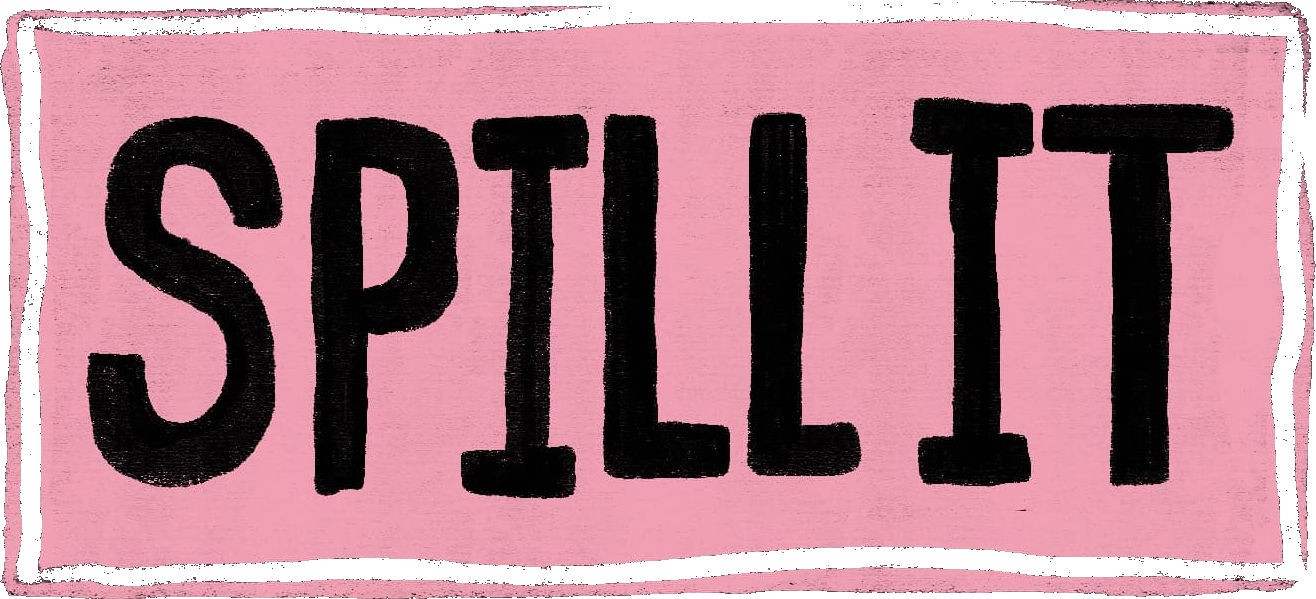
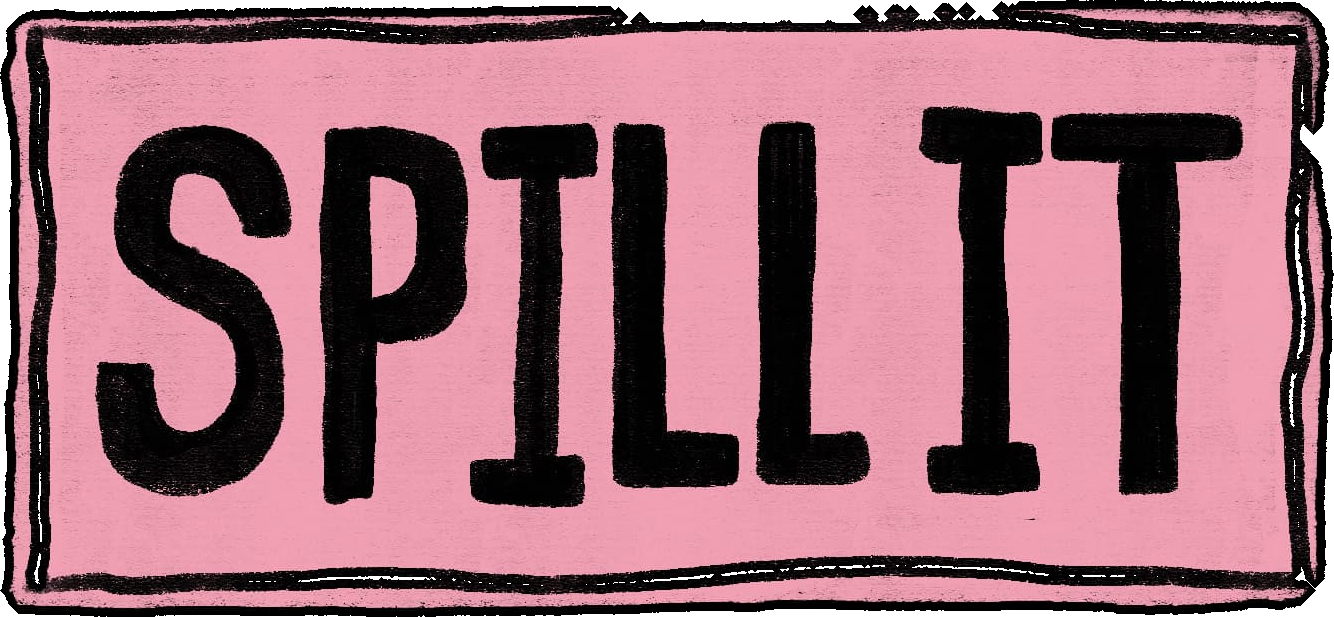
feat: draggable letters/buttons, clean-up reset, sizing, mobile fixes
- Default the Fuzz (CRT) and Splatter toggles to off
- Bigger logo, title, and cherubs (green especially)
- Headline letters are draggable and no longer highlight
- Buttons are draggable too (a tap still opens the panel; a drag just moves)
- Add a "Clean Up" control that snaps letters/buttons back and clears the canvas
- Pink cherub now doubles as an Etch-a-Sketch shake (fall + snap back)
- Raise all cherubs above the content so they're clickable; shrink them and
  the title on mobile so nothing overlaps on small screens
- Regenerate the SPILL IT button so its black outline is complete on all sides

diff --git a/src/app/page.tsx b/src/app/page.tsx
@@ -1,10 +1,69 @@
 "use client";
 
 import Image from "next/image";
-import { useState, useEffect, useRef, useCallback } from "react";
+import { useState, useEffect, useRef, useCallback, createContext, useContext } from "react";
 
 // Base background-music volume (0..1)
 const BG_VOLUME = 0.45;
+
+// Bumped by the "Clean Up" button to snap all dragged items back to place.
+const ResetContext = createContext(0);
+
+// Shared drag behaviour for letters and buttons: free-drag with pointer,
+// snap back smoothly when the reset signal changes.
+function useDraggable() {
+  const resetSignal = useContext(ResetContext);
+  const [pos, setPos] = useState({ x: 0, y: 0 });
+  const [grabbing, setGrabbing] = useState(false);
+  const [snapping, setSnapping] = useState(false);
+  const drag = useRef<{ sx: number; sy: number; ox: number; oy: number } | null>(null);
+  const movedRef = useRef(false);
+  const firstReset = useRef(true);
+
+  useEffect(() => {
+    if (firstReset.current) {
+      firstReset.current = false;
+      return;
+    }
+    setSnapping(true);
+    setPos({ x: 0, y: 0 });
+    const t = setTimeout(() => setSnapping(false), 450);
+    return () => clearTimeout(t);
+  }, [resetSignal]);
+
+  const onDown = (e: React.PointerEvent<HTMLElement>) => {
+    e.currentTarget.setPointerCapture(e.pointerId);
+    drag.current = { sx: e.clientX, sy: e.clientY, ox: pos.x, oy: pos.y };
+    movedRef.current = false;
+    setSnapping(false);
+    setGrabbing(true);
+  };
+  const onMove = (e: React.PointerEvent<HTMLElement>) => {
+    if (!drag.current) return;
+    const dx = e.clientX - drag.current.sx;
+    const dy = e.clientY - drag.current.sy;
+    if (Math.abs(dx) > 4 || Math.abs(dy) > 4) movedRef.current = true;
+    setPos({ x: drag.current.ox + dx, y: drag.current.oy + dy });
+  };
+  const onUp = (e: React.PointerEvent<HTMLElement>) => {
+    drag.current = null;
+    setGrabbing(false);
+    if (e.currentTarget.hasPointerCapture(e.pointerId)) {
+      e.currentTarget.releasePointerCapture(e.pointerId);
+    }
+  };
+
+  const style: React.CSSProperties = {
+    transform: `translate(${pos.x}px, ${pos.y}px)`,
+    transition: snapping ? "transform 0.45s cubic-bezier(0.34, 1.56, 0.64, 1)" : "none",
+    cursor: grabbing ? "grabbing" : "grab",
+    touchAction: "none",
+    userSelect: "none",
+    WebkitUserSelect: "none",
+  };
+
+  return { handlers: { onPointerDown: onDown, onPointerMove: onMove, onPointerUp: onUp, onPointerCancel: onUp }, style, grabbing, movedRef };
+}
 
 const storyConversation: { name: string; text: string; side: "you" | "them" }[] = [
   { name: "You", text: "so uuhhh, wtf is this?", side: "you" },
@@ -67,6 +126,41 @@ const storyConversation: { name: string; text: string; side: "you" | "them" }[] 
   { name: "Al", text: "Look down at your shirt", side: "them" },
 ];
 
+// A headline letter you can freely drag around. The drag offset lives on the
+// outer span; the inner span keeps the load/chaos animation classes so they
+// don't fight the drag transform. Letters never highlight (no text select).
+function DraggableLetter({ className, children }: { className?: string; children: React.ReactNode }) {
+  const { handlers, style, grabbing } = useDraggable();
+  return (
+    <span
+      {...handlers}
+      onPointerDownCapture={(e) => e.preventDefault()}
+      style={{ ...style, display: "inline-block", position: "relative", zIndex: grabbing ? 50 : 1 }}
+    >
+      <span className={className}>{children}</span>
+    </span>
+  );
+}
+
+// A homepage button that is both clickable and draggable. A real click only
+// fires if the pointer didn't move (so dragging doesn't open a panel).
+function DraggableButton({ onClick, children }: { onClick: () => void; children: React.ReactNode }) {
+  const { handlers, style, grabbing, movedRef } = useDraggable();
+  return (
+    <button
+      {...handlers}
+      onClick={() => {
+        if (movedRef.current) return; // it was a drag, not a tap
+        onClick();
+      }}
+      className="hover:brightness-105"
+      style={{ ...style, display: "inline-block", position: "relative", zIndex: grabbing ? 50 : "auto" }}
+    >
+      {children}
+    </button>
+  );
+}
+
 export default function Home() {
   const [activePanel, setActivePanel] = useState<string | null>(null);
   const [email, setEmail] = useState("");
@@ -74,9 +168,17 @@ export default function Home() {
   const [darkMode, setDarkMode] = useState(false);
   const [drawingMode, setDrawingMode] = useState(false);
   const [crayonExchange, setCrayonExchange] = useState<"ask" | "return" | null>(null);
-  const [crtOn, setCrtOn] = useState(true);
-  const [stainsOn, setStainsOn] = useState(true);
+  const [crtOn, setCrtOn] = useState(false);
+  const [stainsOn, setStainsOn] = useState(false);
   const [soundOn, setSoundOn] = useState(true);
+  const [resetSignal, setResetSignal] = useState(0);
+  const cleanUp = () => {
+    setResetSignal((s) => s + 1); // snap dragged letters/buttons back
+    // Erase any spray-paint lines on the canvas
+    const canvas = sprayCanvasRef.current;
+    const ctx = canvas?.getContext("2d");
+    if (canvas && ctx) ctx.clearRect(0, 0, canvas.width, canvas.height);
+  };
   const audioRef = useRef<HTMLAudioElement>(null);
   const jingleRef = useRef<HTMLAudioElement>(null);
   const soundOnRef = useRef(true);
@@ -575,6 +677,7 @@ export default function Home() {
   }, [drawingMode, pickNewColor]);
 
   return (
+    <ResetContext.Provider value={resetSignal}>
     <main className={`${darkMode ? 'dark-bg' : 'paper-bg'} min-h-screen flex flex-col items-center justify-center p-4 md:p-8 relative overflow-hidden transition-colors duration-500`}>
 
       {/* HAND-PAINTED SPLATTER BACKGROUND (inverts in dark mode) */}
@@ -631,7 +734,7 @@ export default function Home() {
             alt="Toggle drawing mode"
             width={100}
             height={120}
-            className={`w-[70px] sm:w-[90px] md:w-[120px] transition-all duration-300 ${drawingMode ? 'drop-shadow-[0_0_10px_rgba(124,160,217,0.9)] scale-110' : ''}`}
+            className={`w-[64px] sm:w-[100px] md:w-[150px] transition-all duration-300 ${drawingMode ? 'drop-shadow-[0_0_10px_rgba(124,160,217,0.9)] scale-110' : ''}`}
           />
         </button>
 
@@ -653,24 +756,24 @@ export default function Home() {
       </div>
 
       {/* INTERACTIVE CHERUB - Right (Pink) - Makes letters fall */}
-      <div className="fixed right-2 md:right-8 top-1/2 -translate-y-1/2 z-10 animate-load-cherub-right">
+      <div className="fixed right-2 md:right-8 top-1/2 -translate-y-1/2 z-40 animate-load-cherub-right">
         <button
-          onClick={() => triggerChaos('fall')}
+          onClick={() => { triggerChaos('fall'); cleanUp(); }}
           className="cherub-btn animate-float-2"
-          title="Cause chaos"
+          title="Shake it back into place"
         >
           <Image
             src="/assets/cherub-pink.png"
             alt="Shake things up"
             width={100}
             height={120}
-            className="w-[70px] sm:w-[90px] md:w-[120px] hover:animate-shake"
+            className="w-[64px] sm:w-[100px] md:w-[150px] hover:animate-shake"
           />
         </button>
       </div>
 
       {/* INTERACTIVE CHERUB - Top (Green) - Spins letters */}
-      <div className="fixed top-4 md:top-8 right-4 md:left-1/4 md:right-auto z-10 animate-load-cherub-top">
+      <div className="fixed top-4 md:top-8 right-4 md:left-1/4 md:right-auto z-40 animate-load-cherub-top">
         <button
           onClick={() => triggerChaos('spin')}
           className="cherub-btn animate-float-3"
@@ -681,7 +784,7 @@ export default function Home() {
             alt="Spin letters"
             width={80}
             height={100}
-            className="w-[50px] sm:w-[65px] md:w-[80px] opacity-90 hover:animate-spin-slow"
+            className="w-[68px] sm:w-[95px] md:w-[125px] opacity-90 hover:animate-spin-slow"
           />
         </button>
       </div>
@@ -726,6 +829,9 @@ export default function Home() {
         >
           {darkMode ? '🌙' : '☀'} Lights
         </button>
+        <button className="ctrl-btn ctrl-cleanup" onClick={cleanUp}>
+          🧹 Clean Up
+        </button>
       </div>
 
       {/* MAIN CONTENT */}
@@ -737,79 +843,70 @@ export default function Home() {
             alt="Already Spilled"
             width={200}
             height={100}
-            className="mx-auto w-[160px] sm:w-[180px] md:w-[200px]"
+            className="mx-auto w-[240px] sm:w-[300px] md:w-[380px]"
             priority
           />
         </div>
 
-        {/* BIG HEADLINE */}
-        <div className="mb-8">
+        {/* BIG HEADLINE - letters are draggable */}
+        <div className="mb-8 select-none">
           <div className="cutout-line mb-2 md:mb-3">
             <div className="flex items-center -space-x-px">
-              <span className={`inline-block letter-hover ${!initialAnimationDone ? 'animate-letter letter-delay-1' : ''} ${chaos === 'fall' ? 'animate-fall-1' : ''} ${chaos === 'spin' ? 'animate-spin-letter' : ''}`}>
-                <Image src="/assets/letters-v2/E1.png" alt="E" width={123} height={172} className="h-[46px] sm:h-[62px] md:h-[80px] lg:h-[94px] w-auto" draggable={false} priority />
-              </span>
-              <span className={`inline-block letter-hover ${!initialAnimationDone ? 'animate-letter letter-delay-2' : ''} ${chaos === 'fall' ? 'animate-fall-2' : ''} ${chaos === 'spin' ? 'animate-spin-letter-delay-1' : ''}`}>
-                <Image src="/assets/letters-v2/M1.png" alt="M" width={173} height={172} className="h-[46px] sm:h-[62px] md:h-[80px] lg:h-[94px] w-auto" draggable={false} priority />
-              </span>
-              <span className={`inline-block letter-hover ${!initialAnimationDone ? 'animate-letter letter-delay-3' : ''} ${chaos === 'fall' ? 'animate-fall-3' : ''} ${chaos === 'spin' ? 'animate-spin-letter-delay-2' : ''}`}>
-                <Image src="/assets/letters-v2/B1.png" alt="B" width={147} height={172} className="h-[46px] sm:h-[62px] md:h-[80px] lg:h-[94px] w-auto" draggable={false} priority />
-              </span>
-              <span className={`inline-block letter-hover ${!initialAnimationDone ? 'animate-letter letter-delay-4' : ''} ${chaos === 'fall' ? 'animate-fall-4' : ''} ${chaos === 'spin' ? 'animate-spin-letter' : ''}`}>
-                <Image src="/assets/letters-v2/R1.png" alt="R" width={106} height={172} className="h-[46px] sm:h-[62px] md:h-[80px] lg:h-[94px] w-auto" draggable={false} priority />
-              </span>
-              <span className={`inline-block letter-hover ${!initialAnimationDone ? 'animate-letter letter-delay-5' : ''} ${chaos === 'fall' ? 'animate-fall-5' : ''} ${chaos === 'spin' ? 'animate-spin-letter-delay-1' : ''}`}>
-                <Image src="/assets/letters-v2/A1.png" alt="A" width={146} height={172} className="h-[46px] sm:h-[62px] md:h-[80px] lg:h-[94px] w-auto" draggable={false} priority />
-              </span>
-              <span className={`inline-block letter-hover ${!initialAnimationDone ? 'animate-letter letter-delay-6' : ''} ${chaos === 'fall' ? 'animate-fall-6' : ''} ${chaos === 'spin' ? 'animate-spin-letter-delay-2' : ''}`}>
-                <Image src="/assets/letters-v2/C1.png" alt="C" width={107} height={172} className="h-[46px] sm:h-[62px] md:h-[80px] lg:h-[94px] w-auto" draggable={false} priority />
-              </span>
-              <span className={`inline-block letter-hover ${!initialAnimationDone ? 'animate-letter letter-delay-7' : ''} ${chaos === 'fall' ? 'animate-fall-7' : ''} ${chaos === 'spin' ? 'animate-spin-letter' : ''}`}>
-                <Image src="/assets/letters-v2/E2.png" alt="E" width={132} height={172} className="h-[46px] sm:h-[62px] md:h-[80px] lg:h-[94px] w-auto" draggable={false} priority />
-              </span>
+              <DraggableLetter className={`inline-block letter-hover ${!initialAnimationDone ? 'animate-letter letter-delay-1' : ''} ${chaos === 'fall' ? 'animate-fall-1' : ''} ${chaos === 'spin' ? 'animate-spin-letter' : ''}`}>
+                <Image src="/assets/letters-v2/E1.png" alt="E" width={123} height={172} className="h-[52px] sm:h-[78px] md:h-[104px] lg:h-[122px] w-auto" draggable={false} priority />
+              </DraggableLetter>
+              <DraggableLetter className={`inline-block letter-hover ${!initialAnimationDone ? 'animate-letter letter-delay-2' : ''} ${chaos === 'fall' ? 'animate-fall-2' : ''} ${chaos === 'spin' ? 'animate-spin-letter-delay-1' : ''}`}>
+                <Image src="/assets/letters-v2/M1.png" alt="M" width={173} height={172} className="h-[52px] sm:h-[78px] md:h-[104px] lg:h-[122px] w-auto" draggable={false} priority />
+              </DraggableLetter>
+              <DraggableLetter className={`inline-block letter-hover ${!initialAnimationDone ? 'animate-letter letter-delay-3' : ''} ${chaos === 'fall' ? 'animate-fall-3' : ''} ${chaos === 'spin' ? 'animate-spin-letter-delay-2' : ''}`}>
+                <Image src="/assets/letters-v2/B1.png" alt="B" width={147} height={172} className="h-[52px] sm:h-[78px] md:h-[104px] lg:h-[122px] w-auto" draggable={false} priority />
+              </DraggableLetter>
+              <DraggableLetter className={`inline-block letter-hover ${!initialAnimationDone ? 'animate-letter letter-delay-4' : ''} ${chaos === 'fall' ? 'animate-fall-4' : ''} ${chaos === 'spin' ? 'animate-spin-letter' : ''}`}>
+                <Image src="/assets/letters-v2/R1.png" alt="R" width={106} height={172} className="h-[52px] sm:h-[78px] md:h-[104px] lg:h-[122px] w-auto" draggable={false} priority />
+              </DraggableLetter>
+              <DraggableLetter className={`inline-block letter-hover ${!initialAnimationDone ? 'animate-letter letter-delay-5' : ''} ${chaos === 'fall' ? 'animate-fall-5' : ''} ${chaos === 'spin' ? 'animate-spin-letter-delay-1' : ''}`}>
+                <Image src="/assets/letters-v2/A1.png" alt="A" width={146} height={172} className="h-[52px] sm:h-[78px] md:h-[104px] lg:h-[122px] w-auto" draggable={false} priority />
+              </DraggableLetter>
+              <DraggableLetter className={`inline-block letter-hover ${!initialAnimationDone ? 'animate-letter letter-delay-6' : ''} ${chaos === 'fall' ? 'animate-fall-6' : ''} ${chaos === 'spin' ? 'animate-spin-letter-delay-2' : ''}`}>
+                <Image src="/assets/letters-v2/C1.png" alt="C" width={107} height={172} className="h-[52px] sm:h-[78px] md:h-[104px] lg:h-[122px] w-auto" draggable={false} priority />
+              </DraggableLetter>
+              <DraggableLetter className={`inline-block letter-hover ${!initialAnimationDone ? 'animate-letter letter-delay-7' : ''} ${chaos === 'fall' ? 'animate-fall-7' : ''} ${chaos === 'spin' ? 'animate-spin-letter' : ''}`}>
+                <Image src="/assets/letters-v2/E2.png" alt="E" width={132} height={172} className="h-[52px] sm:h-[78px] md:h-[104px] lg:h-[122px] w-auto" draggable={false} priority />
+              </DraggableLetter>
             </div>
           </div>
           <div className="cutout-line">
-            <span className={`inline-block letter-hover ${!initialAnimationDone ? 'animate-letter letter-delay-8' : ''} ${chaos === 'fall' ? 'animate-fall-3' : ''} ${chaos === 'spin' ? 'animate-spin-letter-delay-1' : ''}`}>
-              <Image src="/assets/letters-v2/The.png" alt="the" width={167} height={170} className="h-[46px] sm:h-[62px] md:h-[80px] lg:h-[94px] w-auto" draggable={false} priority />
-            </span>
+            <DraggableLetter className={`inline-block letter-hover ${!initialAnimationDone ? 'animate-letter letter-delay-8' : ''} ${chaos === 'fall' ? 'animate-fall-3' : ''} ${chaos === 'spin' ? 'animate-spin-letter-delay-1' : ''}`}>
+              <Image src="/assets/letters-v2/The.png" alt="the" width={167} height={170} className="h-[52px] sm:h-[78px] md:h-[104px] lg:h-[122px] w-auto" draggable={false} priority />
+            </DraggableLetter>
             <div className="flex items-center -space-x-px">
-              <span className={`inline-block letter-hover ${!initialAnimationDone ? 'animate-letter letter-delay-9' : ''} ${chaos === 'fall' ? 'animate-fall-1' : ''} ${chaos === 'spin' ? 'animate-spin-letter' : ''}`}>
-                <Image src="/assets/letters-v2/M2.png" alt="M" width={164} height={170} className="h-[46px] sm:h-[62px] md:h-[80px] lg:h-[94px] w-auto" draggable={false} priority />
-              </span>
-              <span className={`inline-block letter-hover ${!initialAnimationDone ? 'animate-letter letter-delay-10' : ''} ${chaos === 'fall' ? 'animate-fall-5' : ''} ${chaos === 'spin' ? 'animate-spin-letter-delay-2' : ''}`}>
-                <Image src="/assets/letters-v2/Em.png" alt="E" width={124} height={170} className="h-[46px] sm:h-[62px] md:h-[80px] lg:h-[94px] w-auto" draggable={false} priority />
-              </span>
-              <span className={`inline-block letter-hover ${!initialAnimationDone ? 'animate-letter letter-delay-11' : ''} ${chaos === 'fall' ? 'animate-fall-2' : ''} ${chaos === 'spin' ? 'animate-spin-letter-delay-1' : ''}`}>
-                <Image src="/assets/letters-v2/S1.png" alt="S" width={120} height={170} className="h-[46px] sm:h-[62px] md:h-[80px] lg:h-[94px] w-auto" draggable={false} priority />
-              </span>
-              <span className={`inline-block letter-hover ${!initialAnimationDone ? 'animate-letter letter-delay-12' : ''} ${chaos === 'fall' ? 'animate-fall-6' : ''} ${chaos === 'spin' ? 'animate-spin-letter' : ''}`}>
-                <Image src="/assets/letters-v2/S2.png" alt="S" width={114} height={170} className="h-[46px] sm:h-[62px] md:h-[80px] lg:h-[94px] w-auto" draggable={false} priority />
-              </span>
+              <DraggableLetter className={`inline-block letter-hover ${!initialAnimationDone ? 'animate-letter letter-delay-9' : ''} ${chaos === 'fall' ? 'animate-fall-1' : ''} ${chaos === 'spin' ? 'animate-spin-letter' : ''}`}>
+                <Image src="/assets/letters-v2/M2.png" alt="M" width={164} height={170} className="h-[52px] sm:h-[78px] md:h-[104px] lg:h-[122px] w-auto" draggable={false} priority />
+              </DraggableLetter>
+              <DraggableLetter className={`inline-block letter-hover ${!initialAnimationDone ? 'animate-letter letter-delay-10' : ''} ${chaos === 'fall' ? 'animate-fall-5' : ''} ${chaos === 'spin' ? 'animate-spin-letter-delay-2' : ''}`}>
+                <Image src="/assets/letters-v2/Em.png" alt="E" width={124} height={170} className="h-[52px] sm:h-[78px] md:h-[104px] lg:h-[122px] w-auto" draggable={false} priority />
+              </DraggableLetter>
+              <DraggableLetter className={`inline-block letter-hover ${!initialAnimationDone ? 'animate-letter letter-delay-11' : ''} ${chaos === 'fall' ? 'animate-fall-2' : ''} ${chaos === 'spin' ? 'animate-spin-letter-delay-1' : ''}`}>
+                <Image src="/assets/letters-v2/S1.png" alt="S" width={120} height={170} className="h-[52px] sm:h-[78px] md:h-[104px] lg:h-[122px] w-auto" draggable={false} priority />
+              </DraggableLetter>
+              <DraggableLetter className={`inline-block letter-hover ${!initialAnimationDone ? 'animate-letter letter-delay-12' : ''} ${chaos === 'fall' ? 'animate-fall-6' : ''} ${chaos === 'spin' ? 'animate-spin-letter' : ''}`}>
+                <Image src="/assets/letters-v2/S2.png" alt="S" width={114} height={170} className="h-[52px] sm:h-[78px] md:h-[104px] lg:h-[122px] w-auto" draggable={false} priority />
+              </DraggableLetter>
             </div>
           </div>
         </div>
 
-        {/* BUTTONS */}
+        {/* BUTTONS - clickable and draggable */}
         <div className="flex flex-wrap justify-center items-center gap-3 md:gap-4 animate-load-buttons">
-          <button
-            onClick={() => setActivePanel("story")}
-            className="cursor-pointer hover:scale-105 transition-transform"
-          >
-            <Image src="/assets/buttons/story-time.png" alt="Story Time" width={1331} height={426} className="h-[50px] md:h-[65px] lg:h-[75px] w-auto" draggable={false} />
-          </button>
-          <button
-            onClick={() => setActivePanel("collection")}
-            className="cursor-pointer hover:scale-105 transition-transform"
-          >
-            <Image src="/assets/buttons/el-boletin.png" alt="El Boletín" width={1326} height={456} className="h-[50px] md:h-[65px] lg:h-[75px] w-auto" draggable={false} />
-          </button>
-          <button
-            onClick={() => setActivePanel("signup")}
-            className="cursor-pointer hover:scale-105 transition-transform"
-          >
-            <Image src="/assets/buttons/spill-it.png" alt="Spill It" width={1316} height={599} className="h-[50px] md:h-[65px] lg:h-[75px] w-auto" draggable={false} />
-          </button>
+          <DraggableButton onClick={() => setActivePanel("story")}>
+            <Image src="/assets/buttons/story-time.png" alt="Story Time" width={1331} height={426} className="h-[44px] md:h-[56px] lg:h-[66px] w-auto" draggable={false} />
+          </DraggableButton>
+          <DraggableButton onClick={() => setActivePanel("collection")}>
+            <Image src="/assets/buttons/el-boletin.png" alt="El Boletín" width={1326} height={456} className="h-[44px] md:h-[56px] lg:h-[66px] w-auto" draggable={false} />
+          </DraggableButton>
+          <DraggableButton onClick={() => setActivePanel("signup")}>
+            <Image src="/assets/buttons/spill-it.png" alt="Spill It" width={1334} height={617} className="h-[44px] md:h-[56px] lg:h-[66px] w-auto" draggable={false} />
+          </DraggableButton>
         </div>
       </div>
 
@@ -1206,5 +1303,6 @@ export default function Home() {
         <Image src="/assets/2026.png" alt="© 2026 Already Spilled" width={520} height={88} className="h-[28px] md:h-[38px] w-auto" draggable={false} />
       </div>
     </main>
+    </ResetContext.Provider>
   );
 }

diff --git a/src/app/globals.css b/src/app/globals.css
@@ -3304,6 +3304,14 @@ html.dark body {
 .dark .ctrl-btn.ctrl-on { background: #4a5d8a; }
 .dark .ctrl-btn.ctrl-off { background: #1f1f1f; }
 
+/* Clean Up is an action, not a toggle — give it its own pink look */
+.ctrl-btn.ctrl-cleanup {
+  background: #ff6b9d;
+  color: #1a1a1a;
+  margin-top: 0.15rem;
+}
+.dark .ctrl-btn.ctrl-cleanup { background: #b3416d; color: #f5f0e8; }
+
 @media (max-width: 640px) {
   .ctrl-btn { font-size: 0.62rem; padding: 0.22rem 0.45rem; }
 }
